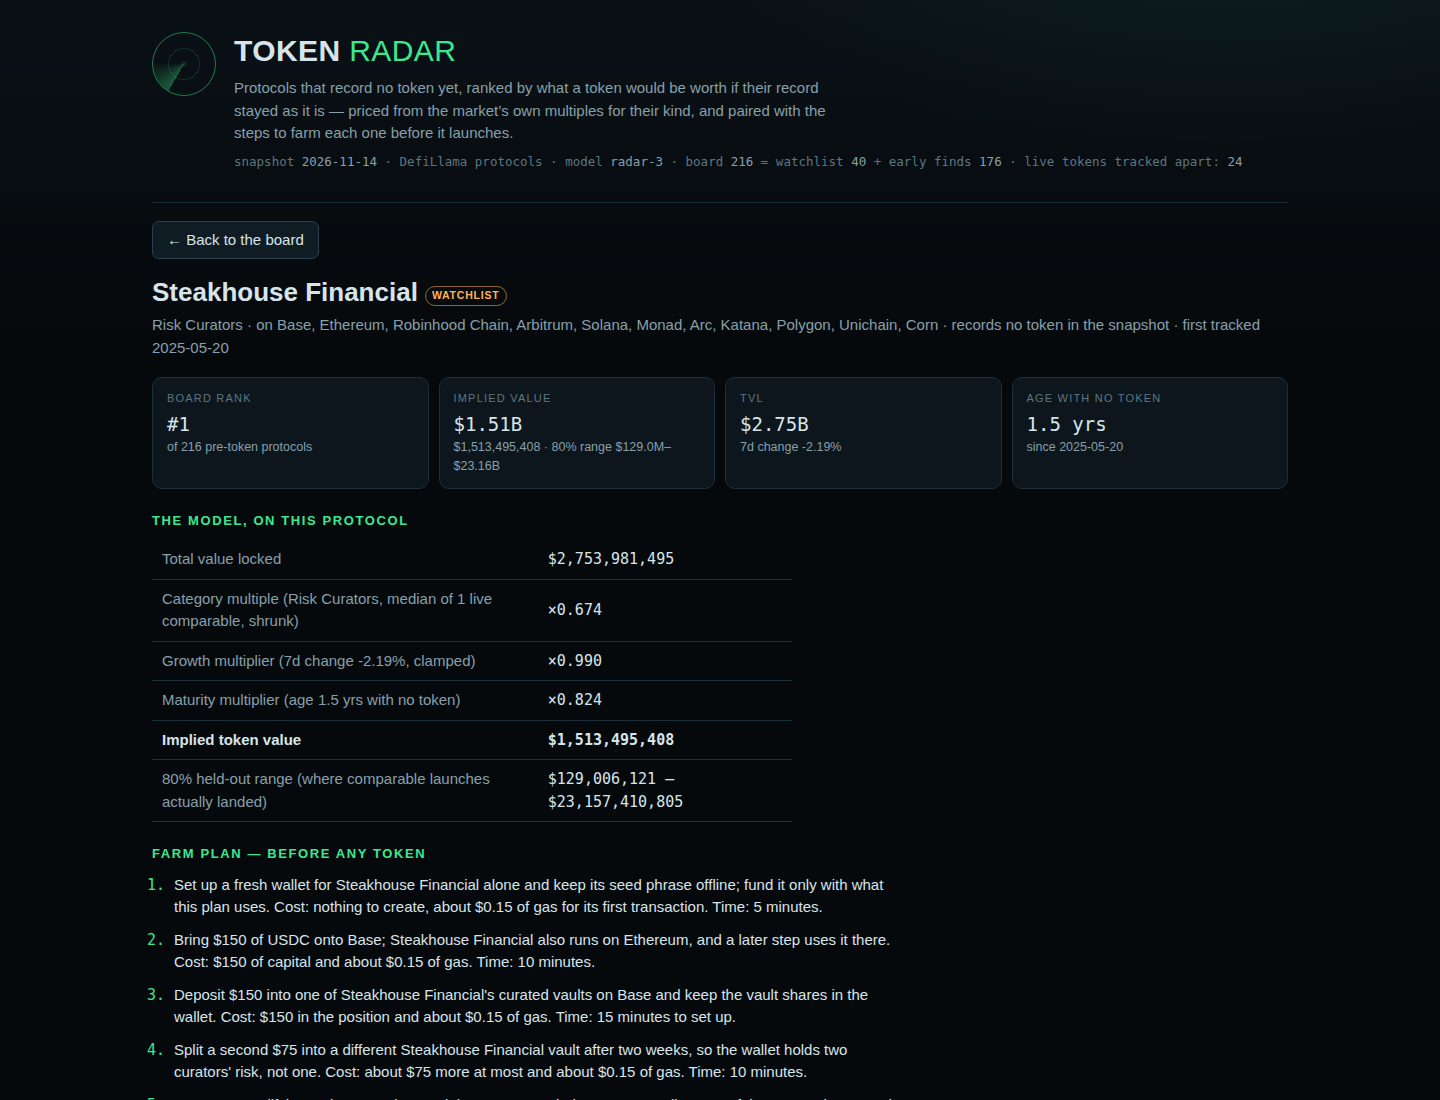
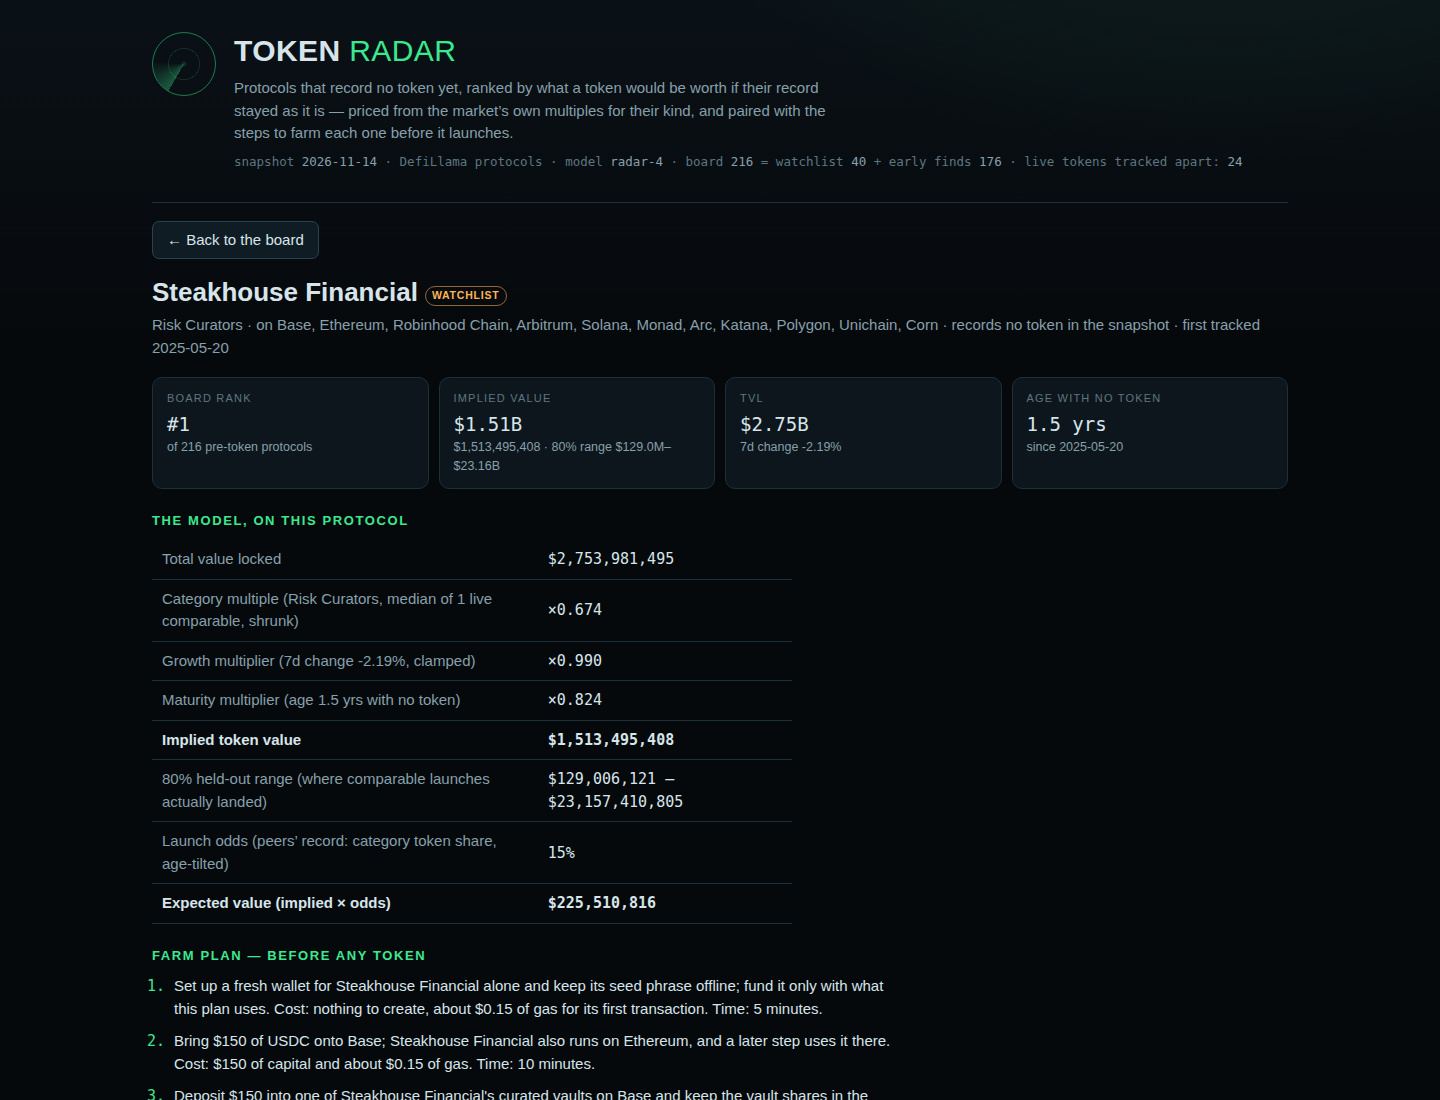
Variant B: launch odds from peers' record + expected value

Changed region(s): [[0.0938, 0.7418, 0.625, 1.0]]

diff --git a/lib/model.ts b/lib/model.ts
@@ -26,6 +26,13 @@
 // row carries (implied_low_usd .. implied_high_usd), and the dashboard's validation panel states
 // the errors and the band's held-out coverage exactly as computed. The growth and maturity terms
 // are fixed constants of the model, applied identically in every test and every row.
+//
+// Each row also carries a launch-odds proxy and the expected value it implies (implied x odds).
+// The odds are read off the peers' record in the snapshot itself: the share of protocols that
+// already record a token, taken per category, smoothed toward the market-wide share, and tilted
+// by the share of the protocol's own age cohort. That is a cross-sectional share at one moment,
+// not a prediction — the dashboard says so wherever the figure appears. The board itself stays
+// ranked by implied value (the gate's order); expected value is a column and a sort on the page.
 
 /** The snapshot's protocol entry: exactly the ten fields the sealed input carries. */
 export interface SnapshotProtocol {
@@ -78,7 +85,7 @@ export const MODEL: ModelConstants = {
 };
 
 /** The model's version label: the dashboard names it and the rules quote it. */
-export const MODEL_VERSION = 'radar-3';
+export const MODEL_VERSION = 'radar-4';
 
 /** How many early protocols below the floor the board carries, chosen by radar score. */
 export const EARLY_ROWS = 176;
@@ -111,6 +118,8 @@ export interface BoardRow {
   implied_value_usd: number;
   implied_low_usd: number;
   implied_high_usd: number;
+  launch_odds: number;
+  expected_value_usd: number;
   model: {
     base_multiple: number;
     comparables: number;
@@ -137,6 +146,8 @@ export interface RadarRow {
   implied_value_usd: number;
   implied_low_usd: number;
   implied_high_usd: number;
+  launch_odds: number;
+  expected_value_usd: number;
   base_multiple: number;
   comparables: number;
   growth_multiplier: number;
@@ -185,6 +196,16 @@ export interface ValidationSummary {
   band_min_n: number;
 }
 
+/** The launch-odds proxy's shape, as the dashboard states it. */
+export interface OddsSummary {
+  protocols_n: number;
+  with_token_n: number;
+  global_rate: number;
+  smoothing_k: number;
+  factor_floor: number;
+  factor_cap: number;
+}
+
 /** Everything the dashboard needs: the board, the live set, and the model it runs. */
 export interface RadarData {
   as_of: string;
@@ -193,6 +214,7 @@ export interface RadarData {
   model: ModelConstants;
   model_version: string;
   validation: ValidationSummary;
+  odds: OddsSummary;
   global_multiple: number;
   multiples: CategoryMultiple[];
   watchlist_size: number;
@@ -449,6 +471,76 @@ export function validateModel(snapshot: Snapshot, model: ModelConstants = MODEL)
   };
 }
 
+/* ---------- launch odds: the peers' record, read cross-sectionally ---------- */
+
+/** The launch-odds proxy's constants: prior strength and the age tilt's clamps. */
+const ODDS_K = 12;
+const ODDS_FACTOR_FLOOR = 0.6;
+const ODDS_FACTOR_CAP = 1.4;
+const ODDS_FLOOR = 0.02;
+const ODDS_CAP = 0.97;
+
+/** The age cohort a protocol falls in, by days since it was first tracked. */
+function ageCohort(age: number | null): string {
+  if (age === null) return 'unknown';
+  if (age < 180) return 'under-6m';
+  if (age < 546) return '6-18m';
+  if (age < 1095) return '18m-3y';
+  return 'over-3y';
+}
+
+/** A launch-odds estimator fitted on a snapshot, and the summary the dashboard states. */
+export interface LaunchOdds {
+  summary: OddsSummary;
+  oddsFor: (p: SnapshotProtocol) => number;
+}
+
+/**
+ * Launch odds from the peers' record: across the whole snapshot, the share of protocols that
+ * already record a token — per category, smoothed toward the market-wide share with a prior of
+ * ODDS_K protocols, then tilted by the protocol's age cohort's own share relative to the market
+ * (clamped, so a thin cohort cannot shout). A protocol with no category gets the market share
+ * tilted by its cohort. This is a cross-sectional share at the snapshot's one moment: it says
+ * what fraction of a protocol's peers have a token, never that this protocol will launch.
+ */
+export function launchOdds(snapshot: Snapshot): LaunchOdds {
+  const all = snapshot.protocols;
+  const withToken = all.filter((p) => !isPreToken(p)).length;
+  const global = all.length === 0 ? 0 : withToken / all.length;
+  const tally = (keyOf: (p: SnapshotProtocol) => string | null): Map<string, { n: number; k: number }> => {
+    const map = new Map<string, { n: number; k: number }>();
+    for (const p of all) {
+      const key = keyOf(p);
+      if (key === null) continue;
+      const cell = map.get(key) ?? { n: 0, k: 0 };
+      cell.n += 1;
+      if (!isPreToken(p)) cell.k += 1;
+      map.set(key, cell);
+    }
+    return map;
+  };
+  const smoothed = (cell: { n: number; k: number } | undefined): number =>
+    cell === undefined ? global : (cell.k + ODDS_K * global) / (cell.n + ODDS_K);
+  const byCategory = tally((p) => p.category);
+  const byCohort = tally((p) => ageCohort(ageDays(snapshot.as_of, p.listed_at)));
+  return {
+    summary: {
+      protocols_n: all.length,
+      with_token_n: withToken,
+      global_rate: round3(global),
+      smoothing_k: ODDS_K,
+      factor_floor: ODDS_FACTOR_FLOOR,
+      factor_cap: ODDS_FACTOR_CAP,
+    },
+    oddsFor: (p) => {
+      const base = p.category !== null ? smoothed(byCategory.get(p.category)) : global;
+      const cohortRate = smoothed(byCohort.get(ageCohort(ageDays(snapshot.as_of, p.listed_at))));
+      const factor = global > 0 ? Math.min(ODDS_FACTOR_CAP, Math.max(ODDS_FACTOR_FLOOR, cohortRate / global)) : 1;
+      return round3(Math.min(ODDS_CAP, Math.max(ODDS_FLOOR, base * factor)));
+    },
+  };
+}
+
 /**
  * The radar score that chooses the early set below the floor: size on a log scale, seven-day
  * momentum, multi-chain reach, a track record long enough to mean something, and priceability —
@@ -478,7 +570,7 @@ export interface BoardSummary {
 }
 
 /** The protocols the board ranks, strongest first, with ranks 1..n. */
-export function buildBoard(snapshot: Snapshot, model: ModelConstants = MODEL, validation: ModelValidation = validateModel(snapshot, model)): BoardRow[] {
+export function buildBoard(snapshot: Snapshot, model: ModelConstants = MODEL, validation: ModelValidation = validateModel(snapshot, model), odds: LaunchOdds = launchOdds(snapshot)): BoardRow[] {
   const pricing = categoryMultiples(snapshot, model);
   const index = bySlug(snapshot.protocols);
   const chosen = new Map<string, SnapshotProtocol>();
@@ -501,6 +593,7 @@ export function buildBoard(snapshot: Snapshot, model: ModelConstants = MODEL, va
     const band = validation.bandFor(s.p.category);
     const low = Math.max(1, Math.round(s.implied * band.lo));
     const high = Math.max(low, Math.round(s.implied * band.hi));
+    const o = odds.oddsFor(s.p);
     return {
     rank: i + 1,
     slug: s.p.slug,
@@ -518,6 +611,8 @@ export function buildBoard(snapshot: Snapshot, model: ModelConstants = MODEL, va
     implied_value_usd: s.implied,
     implied_low_usd: low,
     implied_high_usd: high,
+    launch_odds: o,
+    expected_value_usd: Math.max(1, Math.round(s.implied * o)),
     model: {
       base_multiple: round4(s.baseMultiple),
       comparables: s.comparables,
@@ -726,6 +821,8 @@ export function radarRow(row: BoardRow, watchlist: Set<string>): RadarRow {
     implied_value_usd: row.implied_value_usd,
     implied_low_usd: row.implied_low_usd,
     implied_high_usd: row.implied_high_usd,
+    launch_odds: row.launch_odds,
+    expected_value_usd: row.expected_value_usd,
     base_multiple: row.model.base_multiple,
     comparables: row.model.comparables,
     growth_multiplier: row.model.growth_multiplier,
@@ -738,7 +835,8 @@ export function radarRow(row: BoardRow, watchlist: Set<string>): RadarRow {
 /** Everything the dashboard renders, from the snapshot. */
 export function buildRadar(snapshot: Snapshot, model: ModelConstants = MODEL): { board: BoardRow[]; radar: RadarData } {
   const validation = validateModel(snapshot, model);
-  const board = buildBoard(snapshot, model, validation);
+  const odds = launchOdds(snapshot);
+  const board = buildBoard(snapshot, model, validation, odds);
   const live = liveRows(snapshot);
   const pricing = categoryMultiples(snapshot, model);
   const watchlist = new Set(snapshot.watchlist);
@@ -754,6 +852,7 @@ export function buildRadar(snapshot: Snapshot, model: ModelConstants = MODEL): {
     model,
     model_version: MODEL_VERSION,
     validation: validation.summary,
+    odds: odds.summary,
     global_multiple: round4(pricing.global),
     multiples,
     watchlist_size: snapshot.watchlist.length,

diff --git a/dashboard/app.js b/dashboard/app.js
@@ -42,6 +42,7 @@
   function fmtMult(x) { return '×' + Number(x).toFixed(3); }
   function fmtX(x) { return '×' + Number(x).toFixed(2); }
   function fmtShare(x) { return Math.round(Number(x) * 100) + '%'; }
+  function fmtOdds(x) { return Math.round(Number(x) * 100) + '%'; }
 
   /* ---------- shared chrome ---------- */
   function masthead() {
@@ -73,7 +74,13 @@
       'so one rich outlier cannot carry a category. Seven-day growth and the protocol\u2019s age with no ' +
       'token then adjust the price; nothing else enters, and no protocol is named or special-cased.</p>' +
       '<span class="formula">implied = TVL \u00d7 category multiple \u00d7 (1 + clamped 7d change \u00d7 0.45) \u00d7 (0.65 + 0.35 \u00d7 age/3y)</span>' +
-      '<div class="mults">' + chips + '</div></section>';
+      '<div class="mults">' + chips + '</div>' +
+      '<p class="oddsline"><b>Launch odds</b> come from the peers\u2019 record: across the snapshot\u2019s ' +
+      DATA.odds.protocols_n + ' protocols, ' + fmtShare(DATA.odds.global_rate) + ' already record a token. A row\u2019s odds are ' +
+      'the token share of its own category, smoothed toward that market share, tilted by its age cohort\u2019s share. ' +
+      'That is a cross-sectional share at one moment \u2014 what fraction of its peers have a token \u2014 not a prediction ' +
+      'that this protocol will launch. <b>Expected value</b> is the two figures multiplied, and the board can be sorted by it.</p>' +
+      '<span class="formula">expected = implied \u00d7 launch odds</span></section>';
   }
   function validationPanel() {
     var v = DATA.validation;
@@ -130,7 +137,9 @@
     change: { label: '7d', num: true, get: function (r) { return r.change_7d === null ? -Infinity : r.change_7d; } },
     age: { label: 'Age', num: true, get: function (r) { return r.age_days === null ? -1 : r.age_days; } },
     mult: { label: 'Cat. \u00d7', num: true, get: function (r) { return r.base_multiple; } },
-    implied: { label: 'Implied value', num: true, get: function (r) { return r.implied_value_usd; } }
+    implied: { label: 'Implied value', num: true, get: function (r) { return r.implied_value_usd; } },
+    odds: { label: 'Odds', num: true, get: function (r) { return r.launch_odds; } },
+    expected: { label: 'Expected', num: true, get: function (r) { return r.expected_value_usd; } }
   };
   function visibleRows() {
     var q = state.q.trim().toLowerCase();
@@ -156,7 +165,7 @@
     var head = Object.keys(SORTS).map(function (key) {
       var s = SORTS[key];
       var dir = state.sort === key ? ' <span class="dir">' + (state.dir === 1 ? '\u25b2' : '\u25bc') + '</span>' : '';
-      var hide = key === 'age' || key === 'mult' ? ' class="num hideS"' : s.num ? ' class="num"' : '';
+      var hide = key === 'age' || key === 'mult' || key === 'odds' ? ' class="num hideS"' : s.num ? ' class="num"' : '';
       return '<th' + hide + '><button data-sort="' + key + '">' + s.label + dir + '</button></th>';
     }).join('') + '<th>Chains</th>';
     var body;
@@ -177,6 +186,8 @@
             '<td class="num hideS">' + fmtAge(r.age_days) + '</td>' +
             '<td class="num hideS">' + fmtMult(r.base_multiple) + '</td>' +
             '<td class="num">' + fmtUsd(r.implied_value_usd) + '<span class="bar"><i style="width:' + w + '%"></i></span></td>' +
+            '<td class="num hideS">' + fmtOdds(r.launch_odds) + '</td>' +
+            '<td class="num">' + fmtUsd(r.expected_value_usd) + '</td>' +
             '<td class="chains">' + esc(r.chains.slice(0, 3).join(', ')) + (r.chains.length > 3 ? ' +' + (r.chains.length - 3) : '') + '</td></tr>';
         }).join('') + '</tbody></table>';
     }
@@ -216,7 +227,9 @@
       '<tr><td>Growth multiplier (7d change ' + (r.change_7d === null ? 'unreported, taken as 0' : r.change_7d.toFixed(2) + '%') + ', clamped)</td><td>' + fmtMult(r.growth_multiplier) + '</td></tr>' +
       '<tr><td>Maturity multiplier (age ' + fmtAge(r.age_days) + ' with no token)</td><td>' + fmtMult(r.maturity_multiplier) + '</td></tr>' +
       '<tr class="total"><td>Implied token value</td><td>' + fmtFull(r.implied_value_usd) + '</td></tr>' +
-      '<tr><td>80% held-out range (where comparable launches actually landed)</td><td>' + fmtFull(r.implied_low_usd) + ' \u2013 ' + fmtFull(r.implied_high_usd) + '</td></tr></tbody></table>';
+      '<tr><td>80% held-out range (where comparable launches actually landed)</td><td>' + fmtFull(r.implied_low_usd) + ' \u2013 ' + fmtFull(r.implied_high_usd) + '</td></tr>' +
+      '<tr><td>Launch odds (peers\u2019 record: category token share, age-tilted)</td><td>' + fmtOdds(r.launch_odds) + '</td></tr>' +
+      '<tr class="total"><td>Expected value (implied \u00d7 odds)</td><td>' + fmtFull(r.expected_value_usd) + '</td></tr></tbody></table>';
     var plan = '<ol class="plan">' + r.farm_steps.map(function (s) { return '<li>' + esc(s) + '</li>'; }).join('') + '</ol>';
     app.innerHTML = masthead() +
       '<div class="detail"><button class="back" id="back">\u2190 Back to the board</button>' +

diff --git a/main.ts b/main.ts
@@ -1,10 +1,11 @@
 // A working token-radar-01 entry (Node 22, standard library only).
 //
 // The program reads the sealed snapshot from /input/snapshot.json (or --input <file|dir>), scores every
-// pre-token protocol with the model in lib/model.ts (radar-3: each category priced at the market's own
+// pre-token protocol with the model in lib/model.ts (radar-4: each category priced at the market's own
 // median mcap/TVL for that category, shrunk toward the market-wide median, then adjusted for seven-day
-// growth and maturity — and the fitted multiples validated on the snapshot's own live-token protocols
-// by leave-one-out, split-half and walk-forward tests, whose residuals set each row's 80% range),
+// growth and maturity — the fitted multiples validated on the snapshot's own live-token protocols
+// by leave-one-out, split-half and walk-forward tests, whose residuals set each row's 80% range, and
+// each row carrying a launch-odds proxy from the peers' record with the expected value it implies),
 // writes the ranked board to /output/board.json, and copies this repository's
 // dashboard/ and screenshots/ to /output. Last, it writes /output/dossier.json, the summary the judge
 // reads, with the vendored make.fun library.

diff --git a/dashboard/app.css b/dashboard/app.css
@@ -58,6 +58,7 @@ button, input, select { font: inherit; color: inherit; }
 .mults .n { color: var(--faint); }
 .valid { margin-top: 10px; }
 .valid h2 { color: var(--amber); }
+.model .oddsline { margin-top: 12px; }
 
 /* Controls */
 .controls { position: sticky; top: 0; z-index: 5; background: rgba(6, 9, 12, .92); backdrop-filter: blur(6px);

diff --git a/BUILD_NOTES.md b/BUILD_NOTES.md
@@ -147,3 +147,27 @@ rows must come from outside the watchlist.
 - **Verification**: two runs byte-identical; board.json 412,231 B, dossier.json 1,070,501 B;
   screenshots re-shot (board 286 KiB, detail 228 KiB, filtered 275 KiB, all 1440×1100) and
   visually inspected — the panel and the range render with the real figures.
+
+## Phase 3 — variant B (radar-4): launch odds + expected value
+
+- **Launch odds** (`launchOdds` in `lib/model.ts`): a cross-sectional proxy from the peers'
+  record — across all 758 snapshot protocols, 416 (54.9%) already record a token. A row's odds
+  are its category's token share, smoothed toward the market share with a prior of 12 protocols,
+  tilted by its age cohort's share relative to the market (factor clamped to [0.6, 1.4]; odds
+  clamped to [0.02, 0.97]). Board odds run 0.136–0.97, median 0.43. The page states plainly that
+  this is a share of peers at one moment, not a prediction that the protocol will launch.
+- **Expected value**: every row carries `expected_value_usd = implied × odds`. **Constraint
+  conflict, resolved**: the sealed `sorted_by_value` check (RULES.txt) and `main.ts`'s own
+  `boardIssue` both require `implied_value_usd` non-increasing in rank order, so the board file
+  stays ranked by implied value; expected value is a board column and a sort key on the page,
+  and a total row in the detail breakdown. The EV order genuinely differs — USDD (odds 0.49)
+  passes Veda into the EV top-3, Hive Protocol enters the EV top-5.
+- **Dashboard**: Odds and Expected sortable columns (Odds hides on narrow screens), an odds
+  paragraph with the `expected = implied × launch odds` formula in the model panel, and odds +
+  expected rows in the detail breakdown. Source 29,248 B, fully offline.
+- **Screenshots**: the two panels now push the table below the fold of a top-anchored shot, so
+  the board and filtered shots are framed on the table itself (sticky controls pinned at top,
+  15+ rows in frame); the detail shot stays top-anchored. Board 240 KiB, detail 222 KiB,
+  filtered 207 KiB, all 1440×1100, visually inspected.
+- **Verification**: two runs byte-identical; board.json 422,730 B; dossier.json 1,108,412 B;
+  implied order re-checked non-increasing across all 216 rows after the change.
